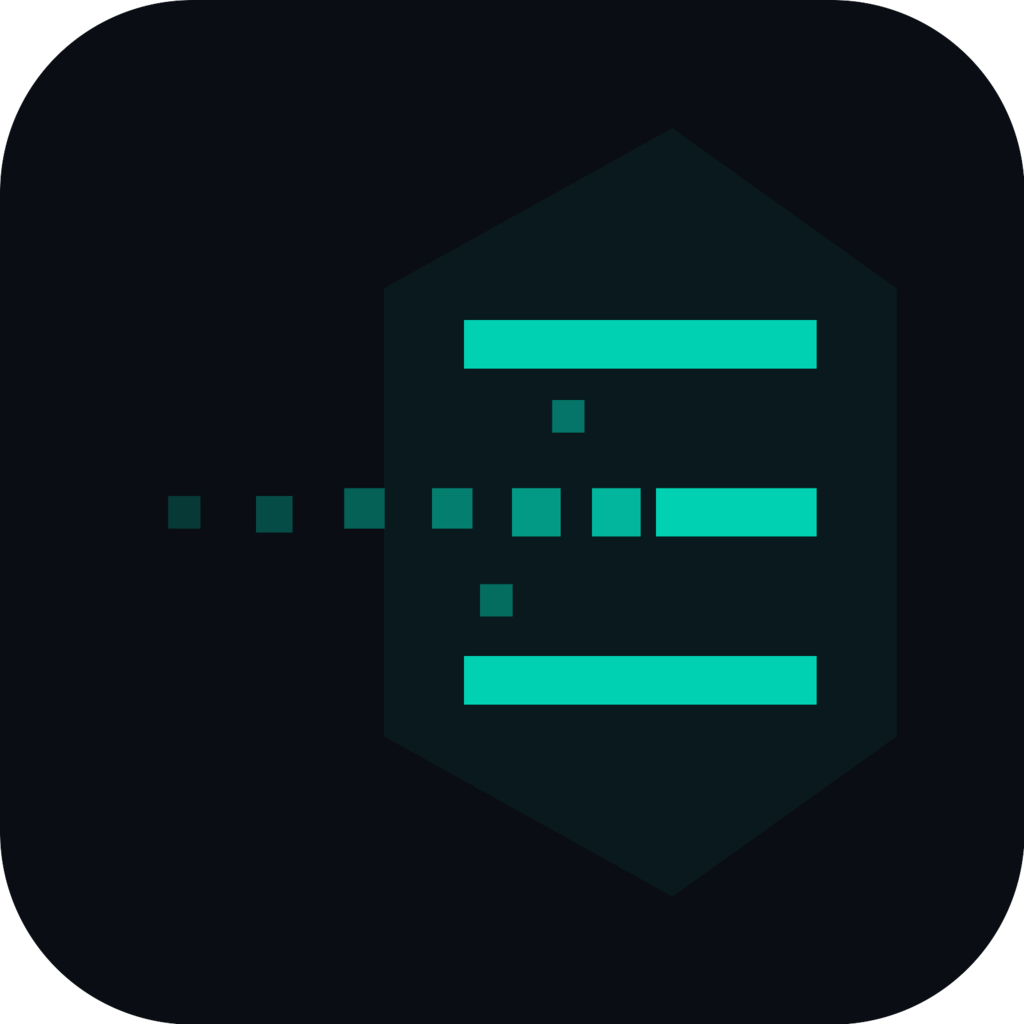
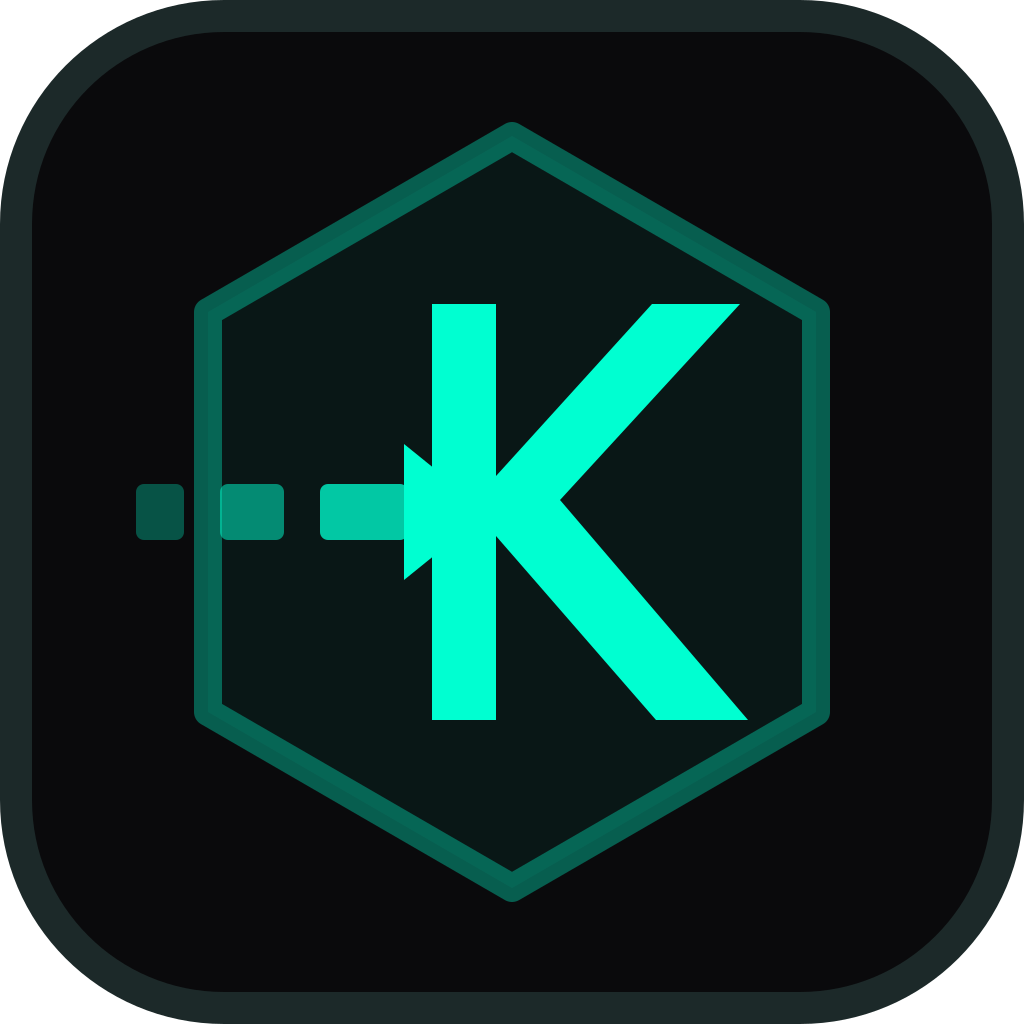
Refresh OAK brand identity

Changed region(s): [[0.125, 0.125, 0.8125, 0.875], [0.0, 0.0, 1.0, 1.0]]

diff --git a/src/styles.css b/src/styles.css
@@ -515,49 +515,16 @@ button {
 }
 
 .oak-logo-mark {
-  display: grid;
+  display: block;
   flex: 0 0 auto;
   height: 44px;
-  place-items: center;
+  transition: filter var(--t-base), transform var(--t-base);
   width: 44px;
 }
 
-.oak-logo-mark svg {
-  display: block;
-  height: 44px;
-  overflow: visible;
-  width: 44px;
-}
-
-.oak-logo-mark .mark-hex {
-  fill: var(--accent-faint);
-  stroke: var(--accent-line);
-  stroke-linejoin: miter;
-  stroke-width: 1.6;
-}
-
-.oak-logo-mark .mark-row {
-  fill: var(--accent);
-  shape-rendering: crispEdges;
-}
-
-.oak-logo-mark .mark-row-breach {
-  fill: var(--accent);
-  filter: drop-shadow(0 0 2px rgba(0, 255, 209, 0.6));
-}
-
-.oak-logo-mark .mark-shard {
-  fill: var(--accent);
-  shape-rendering: crispEdges;
-  transition: transform 260ms ease;
-}
-
-.oak-logo-mark:hover .mark-shard {
-  transform: translateX(-2px);
-}
-
-.oak-logo-mark:hover .mark-shard:nth-child(odd) {
-  transform: translateX(-3px) translateY(-0.5px);
+.logo-lockup:hover .oak-logo-mark {
+  filter: drop-shadow(0 0 8px rgba(0, 255, 209, 0.22));
+  transform: translateY(-1px);
 }
 
 .brand-text {
@@ -568,8 +535,8 @@ button {
 .brand-text strong {
   color: var(--ink);
   font-size: var(--fs-h2);
-  font-weight: 600;
-  letter-spacing: 0.32em;
+  font-weight: 700;
+  letter-spacing: 0.16em;
   line-height: 1;
 }
 
@@ -577,20 +544,10 @@ button {
   color: var(--accent);
   font-family: var(--mono);
   font-size: var(--fs-mono-sm);
-  font-weight: 700;
-  letter-spacing: 0.22em;
+  font-weight: 600;
+  letter-spacing: 0.1em;
   margin-top: 4px;
   text-transform: uppercase;
-}
-
-.logo-lockup .brand-text strong::after {
-  background: var(--accent);
-  content: "";
-  display: inline-block;
-  height: 14px;
-  margin: 0 0 -2px 8px;
-  vertical-align: baseline;
-  width: 2px;
 }
 
 .ui-icon {
@@ -3350,27 +3307,20 @@ font-style: italic;
   min-height: 36px;
 }
 
-.sb-logo .oak-logo-mark,
-.sb-logo .oak-logo-mark svg {
+.sb-logo .oak-logo-mark {
   height: 32px;
   width: 32px;
 }
 
 .sb-logo .brand-text strong {
   font-size: var(--fs-md);
-  letter-spacing: var(--ls-mono-wide);
+  letter-spacing: 0.14em;
   font-weight: 700;
-}
-
-.sb-logo .brand-text strong::after {
-  height: 10px;
-  width: 1.5px;
-  margin: 0 0 -1px 6px;
 }
 
 .sb-logo .brand-text small {
   font-size: var(--fs-mono-sm);
-  letter-spacing: var(--ls-mono-wide);
+  letter-spacing: 0.06em;
   margin-top: 2px;
 }
 

diff --git a/index.html b/index.html
@@ -17,9 +17,10 @@
     <meta property="og:locale" content="en_US" />
     <meta property="og:title" content="OAK — OnChain Attack Knowledge" />
     <meta property="og:description" content="Open vendor-neutral knowledge base of adversary Tactics and Techniques observed against on-chain assets. v0.1: 17 Tactics, 154 Techniques, 48 Mitigations, 41 Software, 19 Threat Actors, 687 worked examples, 1555 citations, 478 relationships." />
-    <meta property="og:image" content="https://onchainattack.org/oak-banner.svg" />
+    <meta property="og:image" content="https://onchainattack.org/oak-social.png" />
     <meta property="og:image:width" content="1200" />
     <meta property="og:image:height" content="630" />
+    <meta property="og:image:type" content="image/png" />
     <meta property="og:image:alt" content="OAK — OnChain Attack Knowledge framework banner" />
     <meta property="og:type" content="website" />
     <meta property="og:url" content="https://onchainattack.org/" />
@@ -27,11 +28,11 @@
     <meta name="twitter:site" content="@iZonex" />
     <meta name="twitter:title" content="OAK — OnChain Attack Knowledge" />
     <meta name="twitter:description" content="Open vendor-neutral taxonomy of on-chain adversary behavior. v0.7: 647 worked examples, 1555 citations, 0 hard-fail validators." />
-    <meta name="twitter:image" content="https://onchainattack.org/oak-banner.svg" />
+    <meta name="twitter:image" content="https://onchainattack.org/oak-social.png" />
+    <meta name="twitter:image:alt" content="OAK — OnChain Attack Knowledge" />
+    <link rel="icon" type="image/svg+xml" href="/favicon.svg" />
     <link rel="icon" type="image/png" sizes="512x512" href="/oak-icon-512.png" />
-    <link rel="icon" type="image/png" sizes="1024x1024" href="/oak-icon-1024.png" />
-    <link rel="apple-touch-icon" sizes="512x512" href="/oak-icon-512.png" />
-    <link rel="apple-touch-icon" sizes="1024x1024" href="/oak-icon-1024.png" />
+    <link rel="apple-touch-icon" sizes="180x180" href="/apple-touch-icon.png" />
     <link rel="alternate" type="application/json" title="OAK JSON export" href="/tools/oak.json" />
     <link rel="alternate" type="application/json" title="OAK STIX 2.1 bundle" href="/tools/oak-stix.json" />
     <link rel="preconnect" href="https://fonts.googleapis.com" />

diff --git a/src/components/layout/LogoMark.tsx b/src/components/layout/LogoMark.tsx
@@ -1,41 +1,7 @@
-
-
 export default function LogoMark() {
-  const shards = [
-    { x: 38, y: 30, s: 3, op: 1 },
-    { x: 33, y: 30, s: 3, op: 0.85 },
-    { x: 28, y: 30, s: 2.5, op: 0.7 },
-    { x: 22, y: 30, s: 2.5, op: 0.55 },
-    { x: 17, y: 30, s: 2, op: 0.45 },
-    { x: 12, y: 31, s: 2, op: 0.35 },
-    { x: 7, y: 31, s: 1.5, op: 0.28 },
-    { x: 35, y: 25, s: 2, op: 0.6 },
-    { x: 30, y: 35, s: 2, op: 0.5 },
-  ];
   return (
     <a className="logo-lockup" href="/" aria-label="OAK home">
-      <span className="oak-logo-mark" aria-hidden="true">
-        <svg viewBox="0 0 64 64" focusable="false" xmlns="http://www.w3.org/2000/svg">
-          <polygon
-            className="mark-hex"
-            points="42,4 60,18 60,46 42,60 24,46 24,18"
-          />
-          <rect className="mark-row" x="29" y="18" width="22" height="3" />
-          <rect className="mark-row mark-row-breach" x="41" y="30" width="10" height="3" />
-          <rect className="mark-row" x="29" y="42" width="22" height="3" />
-          {shards.map((shard, i) => (
-            <rect
-              key={i}
-              className="mark-shard"
-              x={shard.x}
-              y={shard.y}
-              width={shard.s}
-              height={shard.s}
-              opacity={shard.op ?? 1}
-            />
-          ))}
-        </svg>
-      </span>
+      <img className="oak-logo-mark" src="/oak-mark.svg" alt="" aria-hidden="true" />
       <span className="brand-text">
         <strong>OAK</strong>
         <small>OnChain Attack Knowledge</small>
